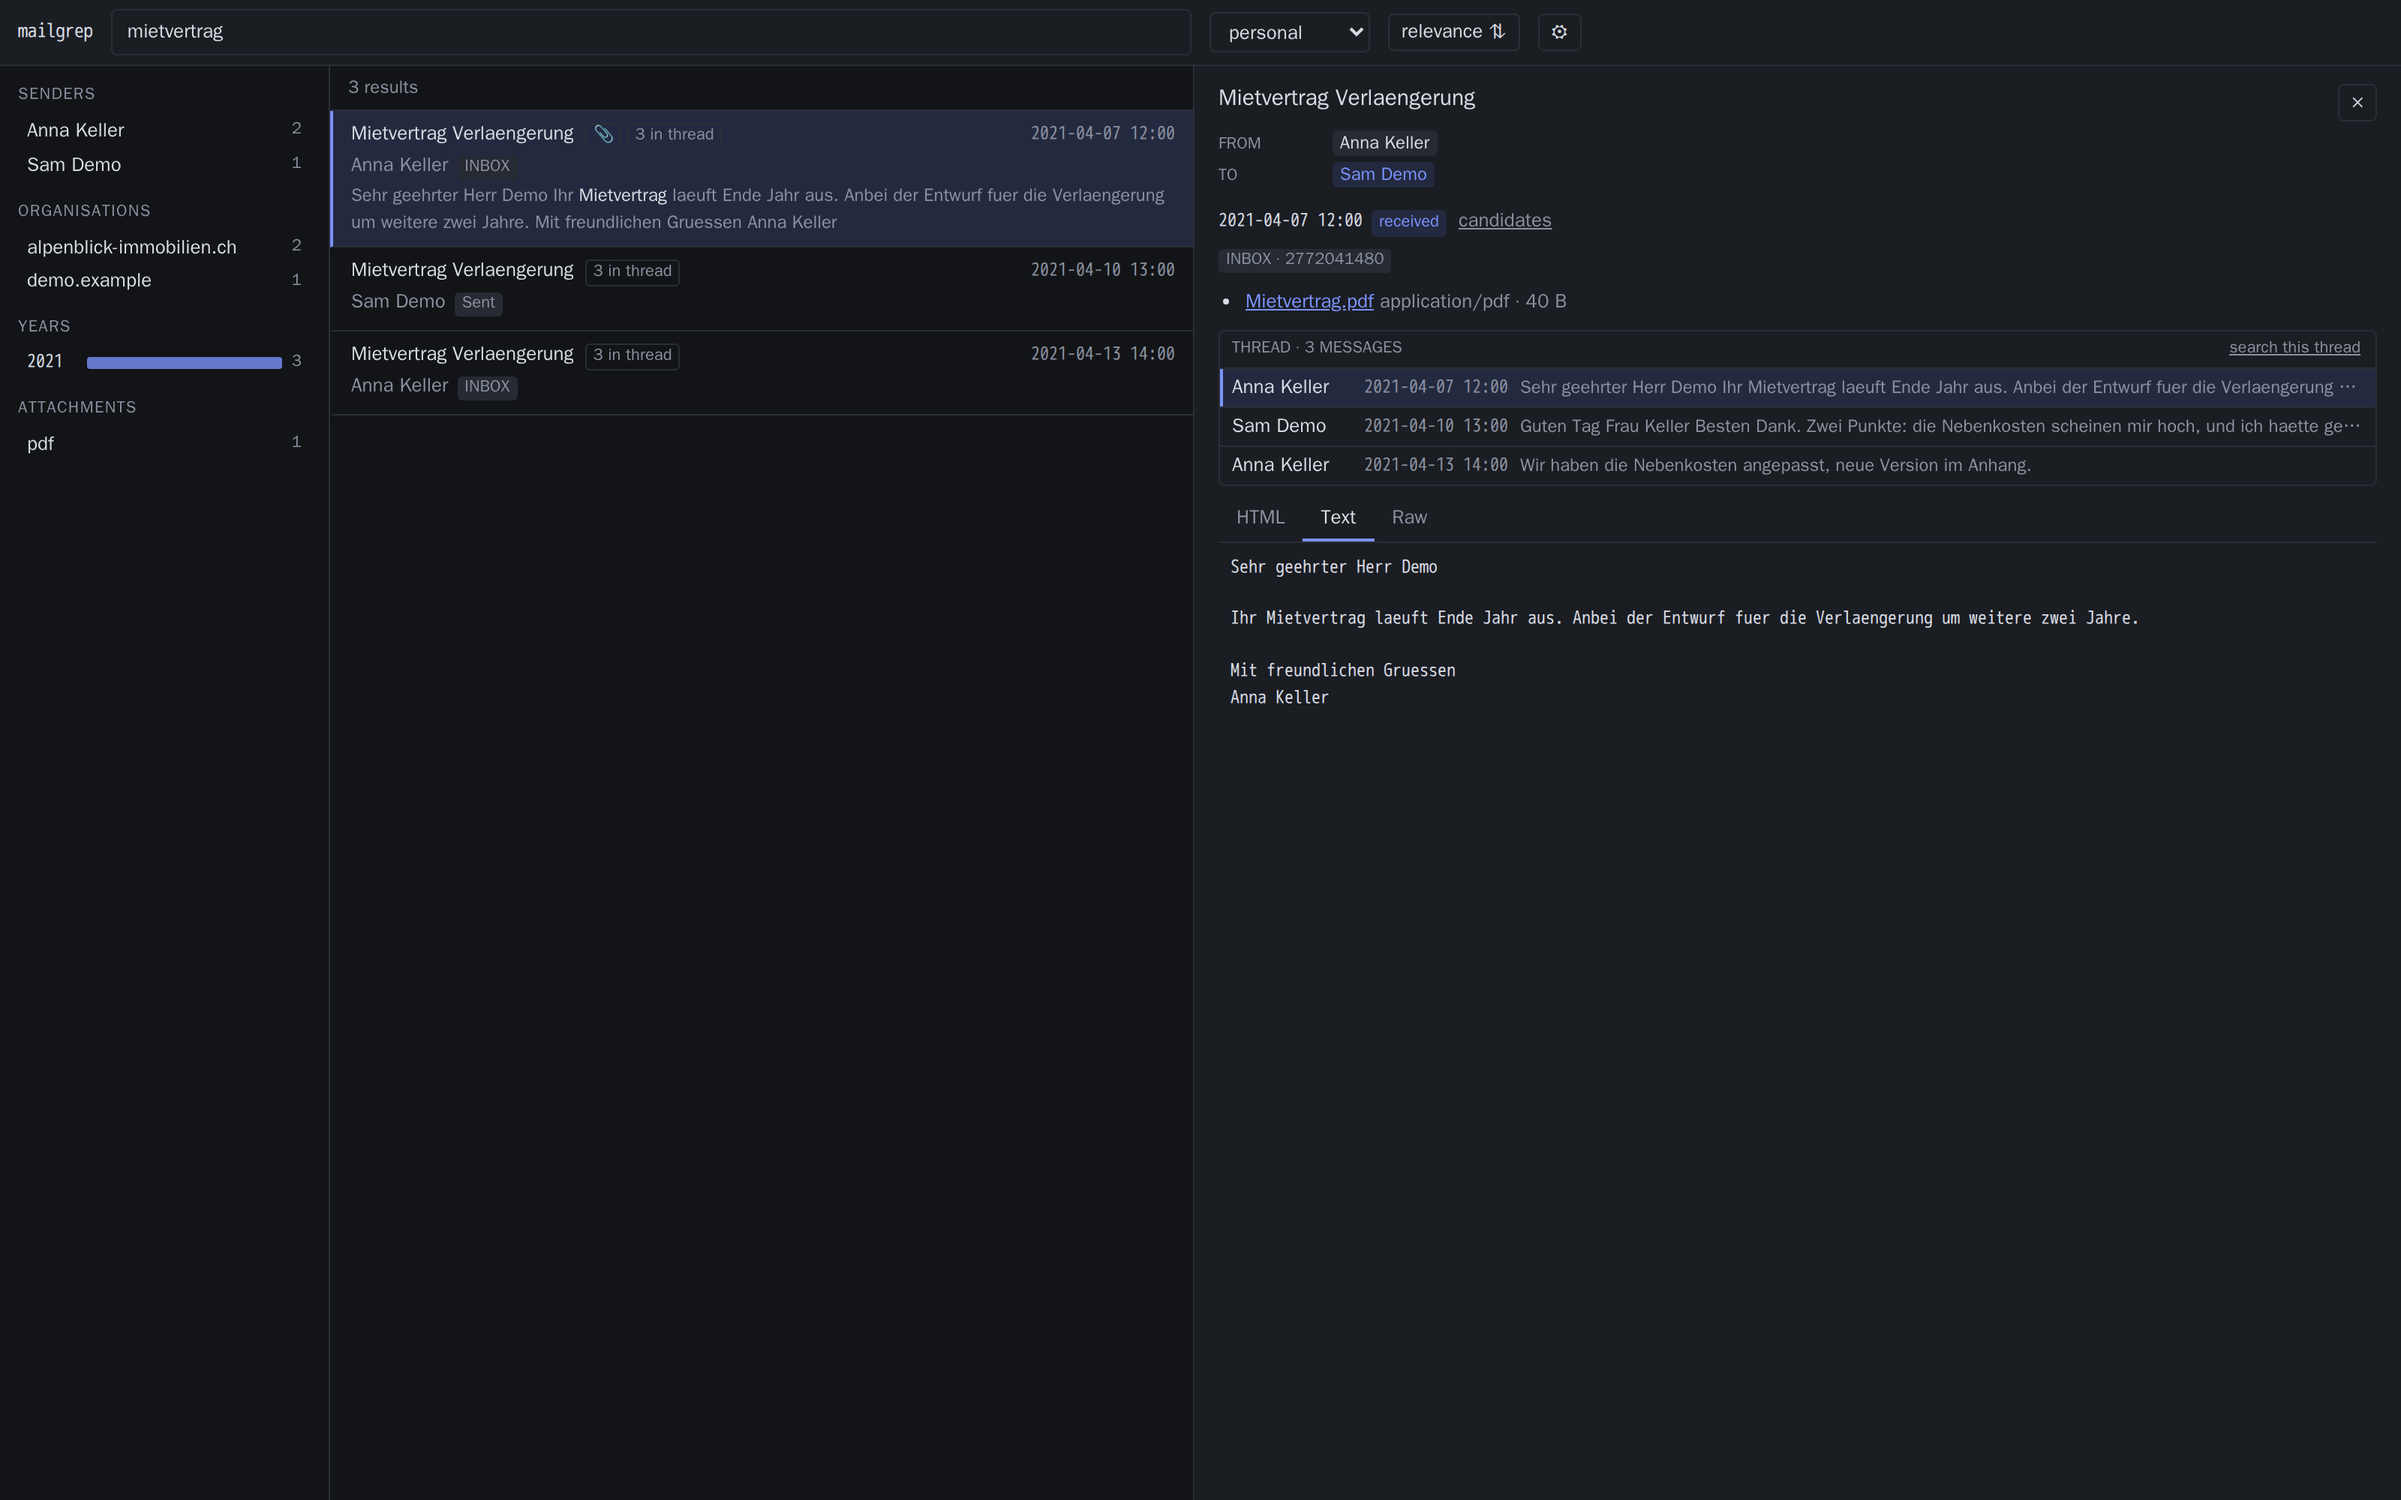
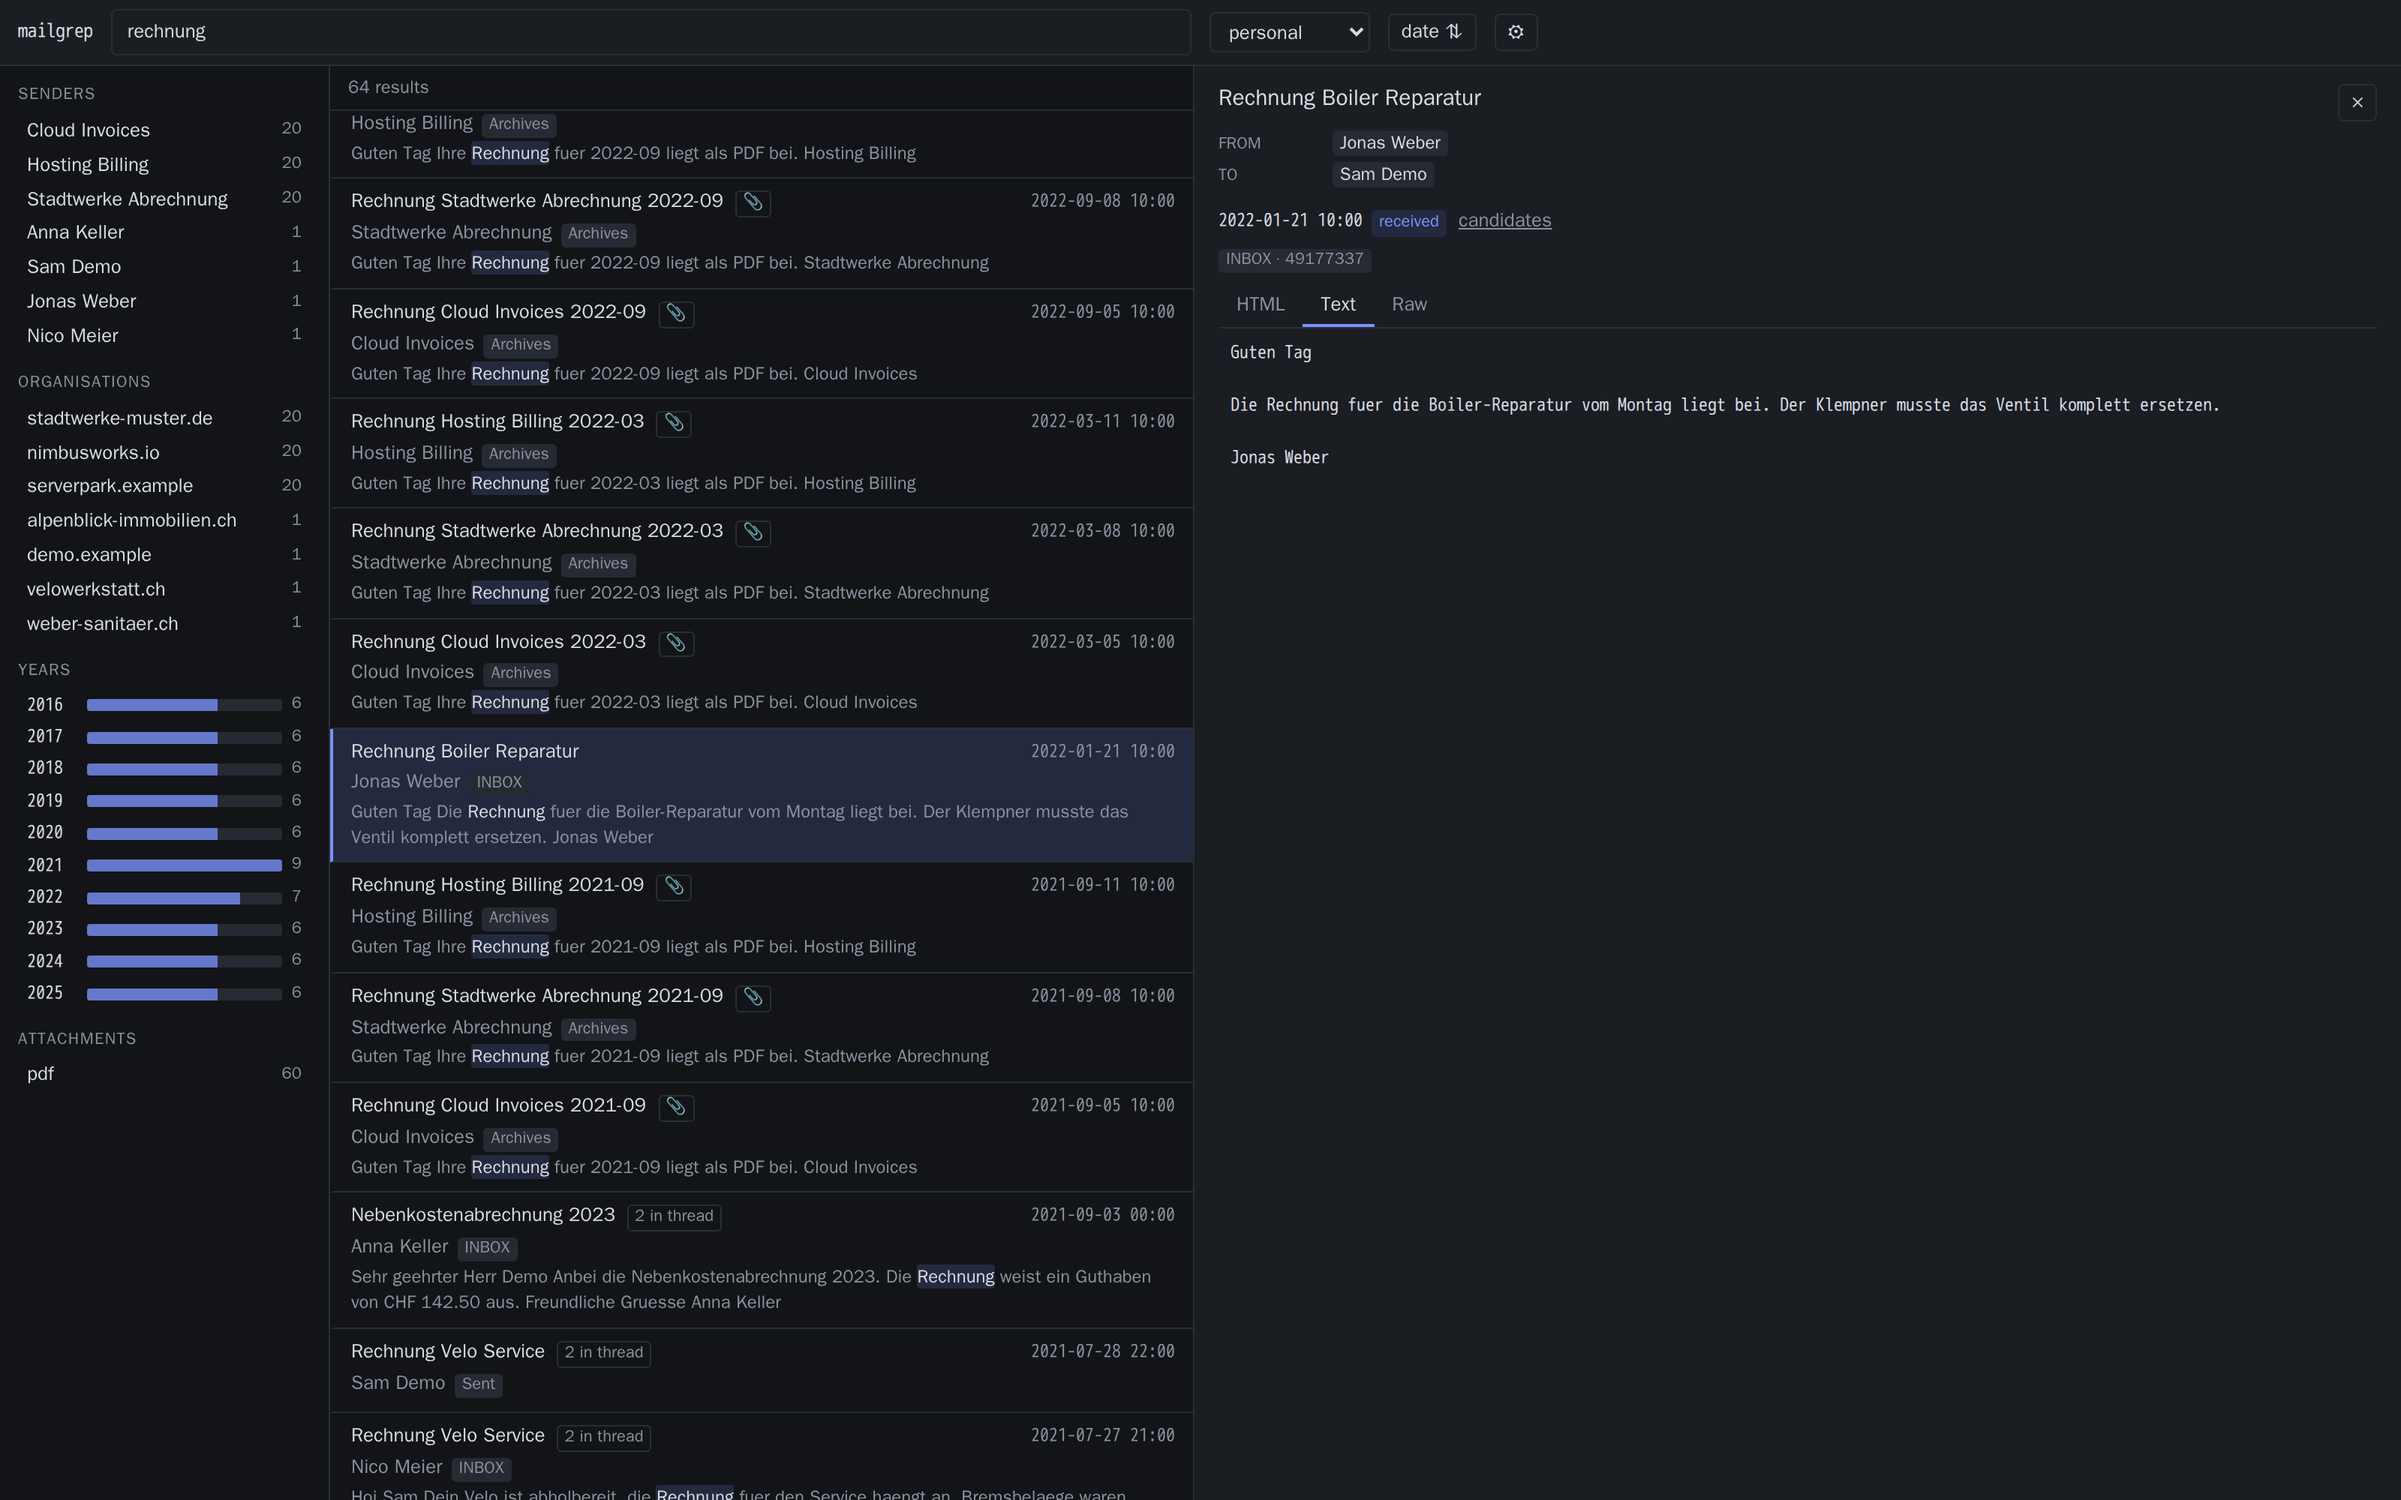
privacy scrub: fake addresses in all fixtures, remove private design docs, bigger demo corpus, fresh screenshots

diff --git a/scripts/demo-corpus.py b/scripts/demo-corpus.py
@@ -19,11 +19,17 @@ PEOPLE = [
     ("David Chen", "david.chen@nimbusworks.io"),
     ("Elena Rossi", "elena@studiorossi.it"),
     ("Tom Baker", "tom.baker@brightpixel.dev"),
+    ("Petra Vogel", "petra.vogel@stadtwerke-muster.de"),
+    ("Nico Meier", "nico@velowerkstatt.ch"),
+    ("Claire Fontaine", "claire@fontaine-avocats.ch"),
+    ("Ben Okafor", "ben.okafor@quantleaf.dev"),
 ]
 ROBOTS = [
-    ("Cloud Invoices", "billing@nimbusworks.io"),
-    ("Alpen Newsletter", "newsletter@alpenblick-immobilien.ch"),
-    ("Conference Team", "noreply@rustconf.example"),
+    ("Cloud Invoices", "billing@nimbusworks.io", "invoice"),
+    ("Stadtwerke Abrechnung", "rechnung@stadtwerke-muster.de", "invoice"),
+    ("Hosting Billing", "billing@serverpark.example", "invoice"),
+    ("Alpen Newsletter", "newsletter@alpenblick-immobilien.ch", "news"),
+    ("Conference Team", "noreply@rustconf.example", "news"),
 ]
 ME = ("Sam Demo", "sam@demo.example")
 
@@ -49,6 +55,24 @@ THREADS = [
         (0, "Guten Tag Herr Demo\n\nFuer die Steuererklaerung fehlen noch: Lohnausweis, Saeule 3a Bescheinigung und die Zinsabrechnung.\n\nFreundliche Gruesse\nLisa Brunner", 0),
         (-1, "Anbei der Lohnausweis und die 3a-Bescheinigung. Die Zinsabrechnung folgt.", 2),
     ]),
+    ("Rechnung Velo Service", [9], [
+        (0, "Hoi Sam\n\nDein Velo ist abholbereit, die Rechnung fuer den Service haengt an. Bremsbelaege waren komplett durch.\n\nGruss Nico", 0),
+        (-1, "Super, danke! Ich komme Samstag vorbei und zahle bar.", 1),
+    ]),
+    ("Nebenkostenabrechnung 2023", [0], [
+        (0, "Sehr geehrter Herr Demo\n\nAnbei die Nebenkostenabrechnung 2023. Die Rechnung weist ein Guthaben von CHF 142.50 aus.\n\nFreundliche Gruesse\nAnna Keller", 0),
+        (-1, "Besten Dank, das Guthaben duerfen Sie mit der naechsten Miete verrechnen.", 4),
+    ]),
+    ("Mandat Nachbarschaftsstreit", [10], [
+        (0, "Cher Monsieur,\n\nSuite a notre entretien, vous trouverez ci-joint la convention d'honoraires pour le mandat.\n\nMaitre Fontaine", 0),
+        (-1, "Merci beaucoup. Je vous renvoie la convention signee cette semaine.", 3),
+        (0, "Bien recu, nous deposons la requete lundi.", 8),
+    ]),
+    ("Search index performance review", [11, 5], [
+        (0, "Sam — profiled the new index build: 40% faster after the mmap change, but memory spikes during merges. Thoughts?", 0),
+        (1, "We hit the same thing at Nimbus; capping merge threads helped.", 1),
+        (-1, "Capping at 2 merge threads now, spike is gone. Shipping it.", 2),
+    ]),
 ]
 
 ONEOFFS = [
@@ -57,6 +81,13 @@ ONEOFFS = [
     (4, "Fotos vom Wochenende", "Hoi Sam!\n\nDie Fotos vom Wanderwochenende sind online — die vom Gipfel sind der Hammer."),
     (5, "Standup notes + search latency", "Notes from today: p99 search latency down to 8ms after the index rebuild. Shipping Thursday."),
     (6, "Preventivo sito web", "Ciao Sam,\n\nin allegato il preventivo per il nuovo sito. Fammi sapere!\n\nElena"),
+    (3, "Rechnung Boiler Reparatur", "Guten Tag\n\nDie Rechnung fuer die Boiler-Reparatur vom Montag liegt bei. Der Klempner musste das Ventil komplett ersetzen.\n\nJonas Weber"),
+    (8, "Zaehlerstand Ablesung", "Sehr geehrter Kunde,\n\nbitte teilen Sie uns bis Ende Monat Ihren aktuellen Zaehlerstand mit.\n\nStadtwerke Muster"),
+    (2, "Fristerstreckung Steuern genehmigt", "Guten Tag Herr Demo\n\nDie Fristerstreckung bis 30. September wurde genehmigt.\n\nLisa Brunner"),
+    (7, "Design review Thursday?", "Hey — can we move the design review to Thursday 15:00? The new facet rail mockups are ready."),
+    (9, "Winterreifen einlagern", "Hoi Sam\n\nDeine Winterreifen sind eingelagert, Abholung ab Oktober jederzeit moeglich."),
+    (10, "Convention signee recue", "Cher Monsieur,\n\nNous confirmons la reception de la convention signee.\n\nMaitre Fontaine"),
+    (11, "Benchmark numbers look great", "The comparison table is done — we beat the baseline on every recall metric. Draft attached tomorrow."),
 ]
 
 
@@ -145,23 +176,27 @@ for i, (p_i, subj, body) in enumerate(ONEOFFS):
     n += 1
     write_eml("INBOX", f"{n:03}.eml", hdrs, bdy, date)
 
-# robots / newsletters spread over years
-for y in range(2019, 2026):
-    for i, (rname, raddr) in enumerate(ROBOTS):
-        date = datetime(y, 2 + i * 4, 12, 10, tzinfo=timezone.utc)
-        headers = base_headers(
-            f"rob{y}{i}@demo.example",
-            f"{'Rechnung' if 'billing' in raddr else 'Newsletter'} {rname} {y}-{2 + i * 4:02}",
-            (rname, raddr),
-            ME,
-            date,
-        )
-        if "billing" in raddr:
-            hdrs, bdy = with_pdf(headers, f"Invoice for {y}, attached as PDF.", f"invoice-{y}.pdf")
-        else:
-            hdrs, bdy = plain(headers, f"News and updates from {rname}, edition {y}.")
-        n += 1
-        # archives get years-old mail; a couple keep fresh mtimes -> skew demo
-        write_eml("Archives", f"{n:03}.eml", hdrs, bdy, date, mtime_now=(y == 2019 and i == 0))
+# robots: invoices twice a year, newsletters quarterly, spread over a decade
+for y in range(2016, 2026):
+    for i, (rname, raddr, kind) in enumerate(ROBOTS):
+        months = [3, 9] if kind == "invoice" else [1, 4, 7, 10]
+        for m in months:
+            date = datetime(y, m, 5 + i * 3, 10, tzinfo=timezone.utc)
+            subj = (
+                f"Rechnung {rname} {y}-{m:02}" if kind == "invoice"
+                else f"Newsletter {rname} {y}-{m:02}"
+            )
+            headers = base_headers(f"rob{y}{m}{i}@demo.example", subj, (rname, raddr), ME, date)
+            if kind == "invoice":
+                hdrs, bdy = with_pdf(
+                    headers,
+                    f"Guten Tag\n\nIhre Rechnung fuer {y}-{m:02} liegt als PDF bei.\n\n{rname}",
+                    f"rechnung-{y}-{m:02}.pdf",
+                )
+            else:
+                hdrs, bdy = plain(headers, f"News and updates from {rname}, edition {y}-{m:02}.")
+            n += 1
+            # archives get years-old mail; a few keep fresh mtimes -> skew demo
+            write_eml("Archives", f"{n:03}.eml", hdrs, bdy, date, mtime_now=(y == 2019 and i == 0 and m == 3))
 
 print(f"{n} messages in {OUT}/")

diff --git a/src/normalize.rs b/src/normalize.rs
@@ -5,8 +5,8 @@ use mail_parser::{HeaderValue, MessageParser, MimeHeaders};
 use sha2::{Digest, Sha256};
 
 /// normalize(), but a panic on one adversarial message becomes an Err the
-/// sync loop can record and skip (SPEC story 15: one malformed message must
-/// never abort the run).
+/// sync loop can record and skip — one malformed message must never abort
+/// the run.
 pub fn normalize_catch(raw: &RawMessage, now: i64) -> anyhow::Result<NormalizedMessage> {
     std::panic::catch_unwind(std::panic::AssertUnwindSafe(|| normalize(raw, now))).map_err(|p| {
         let msg = p

diff --git a/scripts/relevance.py b/scripts/relevance.py
@@ -1,5 +1,5 @@
 #!/usr/bin/env python3
-"""Relevance harness (SPEC.md "Relevance is measured, not asserted").
+"""Relevance harness — relevance is measured, not asserted.
 
 Reads a TSV of `query<TAB>expected-identity` pairs drawn from the real
 archive (private, not committed), runs each against a live mailgrep, and

diff --git a/CONTRIBUTING.md b/CONTRIBUTING.md
@@ -4,11 +4,12 @@ Thanks for your interest! A few things worth knowing before you start.
 
 ## Ground rules
 
-- **Read `DESIGN.md` first.** Most "why doesn't it do X" questions are
-  answered there, and several non-features are deliberate decisions
-  (no IMAP writes, header-only threading, no fuzzy subject grouping).
-  PRs that reverse a documented decision need a design argument, not just
-  code.
+- **Several non-features are deliberate decisions**, not gaps: mailgrep never
+  writes to IMAP, threads come from `References`/`In-Reply-To` only (no fuzzy
+  subject grouping — a correct-but-incomplete thread beats a confident wrong
+  merge), quoted text is downweighted rather than deleted, dates are derived
+  by corroboration between sources, and accounts are a hard partition. PRs
+  that reverse one of these need a design argument, not just code.
 - Bug reports: include the output of `/api/status`, relevant log lines
   (`podman/docker logs mailgrep`), and — if it's a parsing problem — a
   **redacted** `.eml` that reproduces it. Never attach real mail.
@@ -24,7 +25,7 @@ cargo run                                  # serves on :8025
 Add a fixture account pointing at `fixtures/corpus/` to get test data into
 a running instance.
 
-## Testing conventions (from SPEC.md)
+## Testing conventions
 
 - Most behaviour is tested **through the HTTP API** over the fixture corpus
   (`tests/api.rs`) — internals stay free to change.

diff --git a/README.md b/README.md
@@ -162,14 +162,12 @@ cargo test                              # normaliser + parser units, API-over-fi
 cargo run                               # API + SPA on :8025
 ```
 
-The test seams follow `SPEC.md`: almost everything is asserted through the HTTP
+The test seams are deliberate: almost everything is asserted through the HTTP
 API against a committed corpus of adversarial `.eml` fixtures
 (`fixtures/corpus/`), so internals are free to change. The normaliser and query
 parser are additionally table-tested as pure functions. The query AST types are
 exported to TypeScript via `ts-rs` (`cargo test` regenerates `bindings/`).
 
-Architecture and the reasoning behind every decision: `DESIGN.md`. Scope and
-user stories: `SPEC.md`.
 
 ## Non-goals (v1)
 
